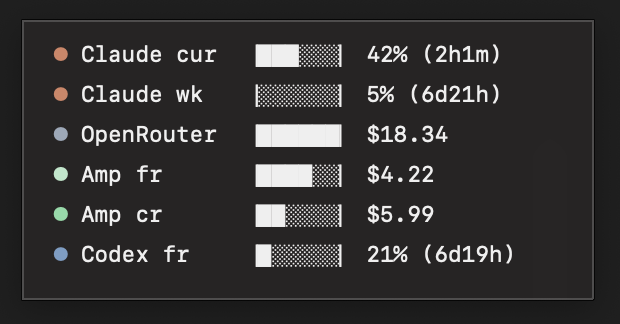
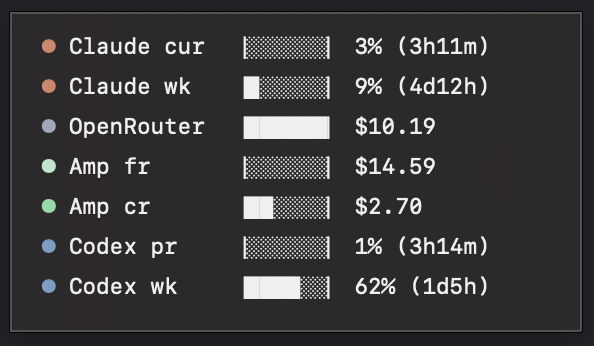
add codex 5hr. renames

Changed region(s): [[0.0, 0.0309, 1.0, 0.9568]]

diff --git a/app.py b/app.py
@@ -87,13 +87,13 @@ SERVICE_DOT_HEX = {
 # Generic entries also carry: endpoint, auth {type, token|cookie}, fields {used,limit,reset}
 
 BUILTIN_SERVICES = [
-    {"id": "claude_5h",   "label": "Claude cur",  "type": "claude_5h"},
+    {"id": "claude_5h",   "label": "Claude 5hr",  "type": "claude_5h"},
+    {"id": "codex",       "label": "Codex 5hr",   "type": "codex"},
+    {"id": "amp",         "label": "Amp 10hr",    "type": "amp"},
     {"id": "claude_7d",   "label": "Claude wk",   "type": "claude_7d"},
-    {"id": "openrouter",  "label": "OpenRouter",  "type": "openrouter"},
-    {"id": "amp",          "label": "Amp",         "type": "amp"},
-    {"id": "amp_credits", "label": "Amp cr",      "type": "amp_credits"},
-    {"id": "codex",       "label": "Codex",       "type": "codex"},
+    {"id": "amp_credits", "label": "Amp",         "type": "amp_credits"},
     {"id": "codex_7d",    "label": "Codex wk",    "type": "codex_7d"},
+    {"id": "openrouter",  "label": "OpenRouter",  "type": "openrouter"},
 ]
 
 
@@ -574,7 +574,7 @@ def parse_amp(data: dict, _svc: dict) -> tuple[str, str, list[str]]:
     if hourly:
         details.append(f"Replenishes +${hourly/100:.2f}/hr")
 
-    data["_display_label"] = "Amp fr"
+    data["_display_label"] = "Amp 10hr"
     return (
         f"{_bar(pct_used)} ${remaining_usd:.2f}",
         f"Amp ${remaining_usd:.2f}",

diff --git a/README.md b/README.md
@@ -44,7 +44,7 @@ Tokemon reads `~/.config/tokemon/config.json` (created from `config.example.json
 }
 ```
 
-This gives you all seven rows shown in the overlay: **Claude cur** (5h window), **Claude wk** (7d window), **OpenRouter**, **Amp fr** (free tier), **Amp cr** (credits), **Codex fr** (current window), and **Codex wk** (7d window).
+This gives you all seven rows shown in the overlay: **Claude 5hr** (5h window), **Codex 5hr** (current window), **Amp 10hr** (free tier), **Claude wk** (7d window), **Amp** (credits), **Codex wk** (7d window), and **OpenRouter**.
 
 ### Setup
 
